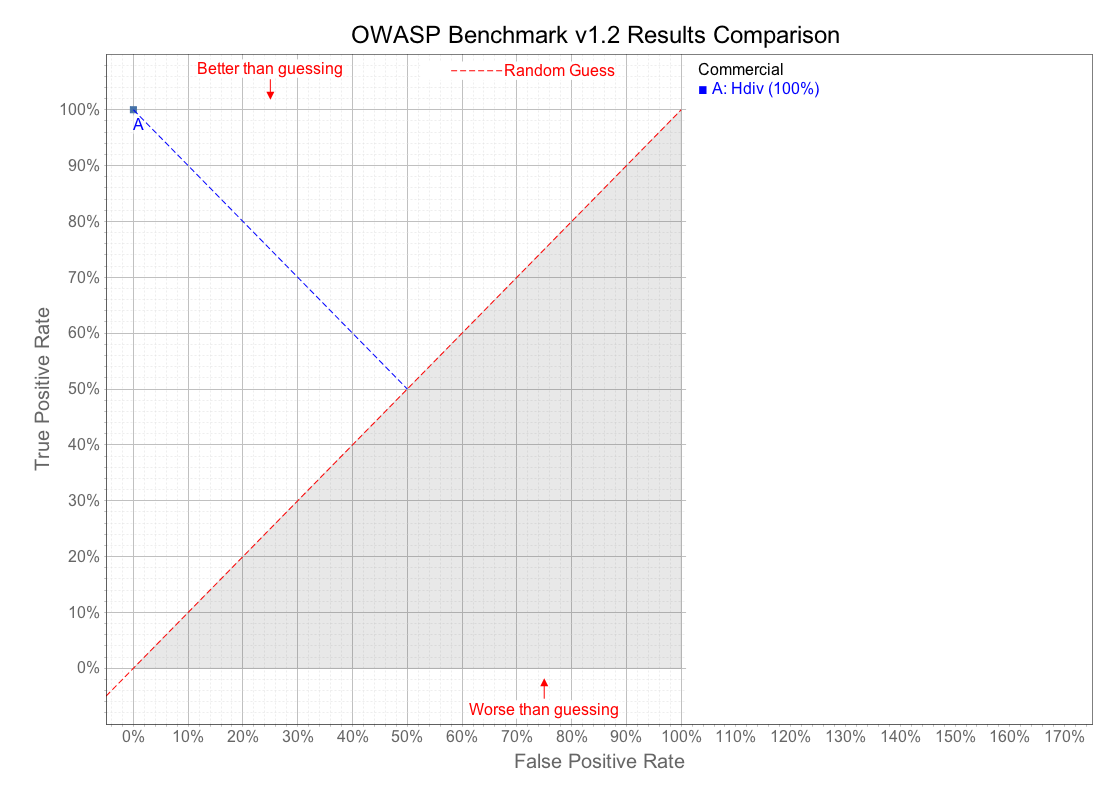
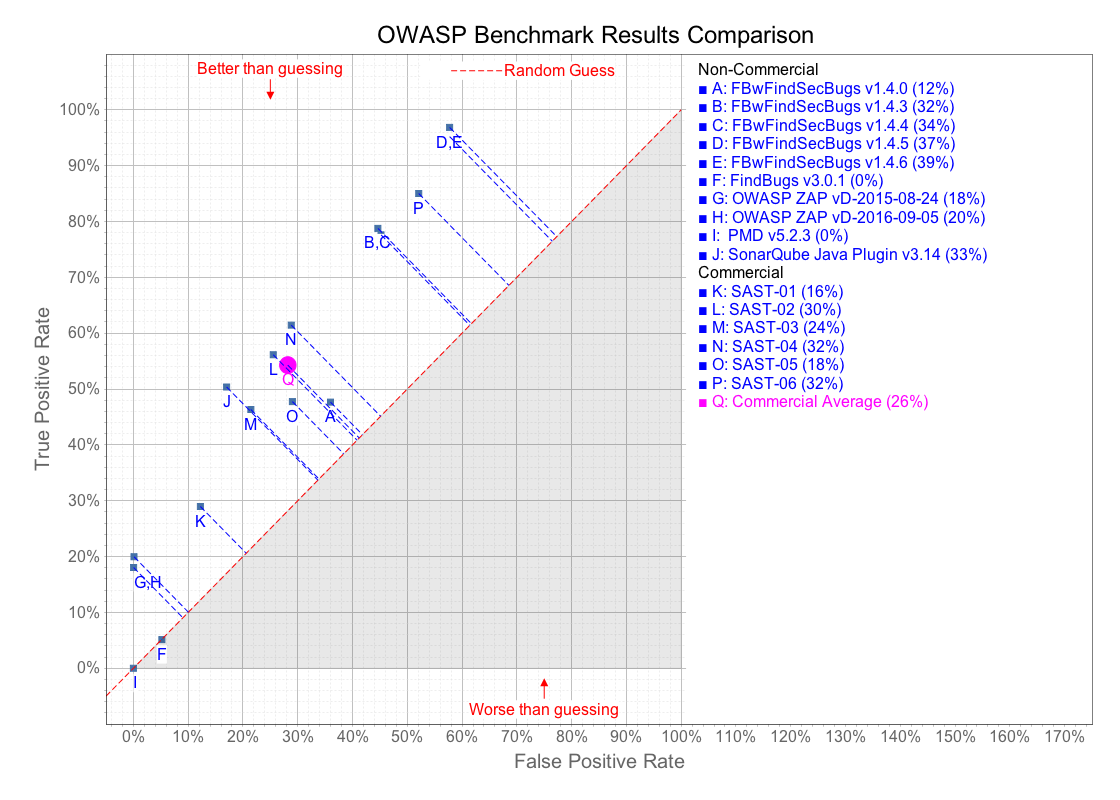
Recover changes

diff --git a/scorecard/OWASP_Benchmark_Home.html b/scorecard/OWASP_Benchmark_Home.html
@@ -10,7 +10,7 @@
     <meta name="author" content="">
     <link rel="icon" href="../../favicon.ico">
 
-    <title>Guide to the OWASP Benchmark v1.2</title>
+    <title>Guide to the OWASP Benchmark v1.1,1.2</title>
 
     <!-- Bootstrap core CSS -->
     <link href="content/css/bootstrap.min.css" rel="stylesheet">
@@ -34,7 +34,7 @@
     <nav class="navbar navbar-inverse navbar-fixed-top">
       <div class="container-fluid">
         <div class="navbar-header">
-          <a class="navbar-brand" href="OWASP_Benchmark_Home.html">OWASP Benchmark v1.2</a>
+          <a class="navbar-brand" href="OWASP_Benchmark_Home.html">OWASP Benchmark v1.1,1.2</a>
         </div>
         <div id="navbar" class="navbar-collapse collapse">
           <ul class="nav navbar-nav navbar-right">
@@ -42,24 +42,40 @@
 			<li class="dropdown">
 	          <a href="#" class="dropdown-toggle" data-toggle="dropdown" role="button" aria-haspopup="true" aria-expanded="false">Tools<span class="caret"></span></a>
 	          <ul class="dropdown-menu">
-<li><a href="Benchmark_v1.2_Scorecard_for_Hdiv.html">Hdiv</a></li>
+<li><a href="Benchmark_v1.2_Scorecard_for_FBwFindSecBugs_v1.4.0.html">FBwFindSecBugs v1.4.0</a></li>
+<li><a href="Benchmark_v1.2_Scorecard_for_FBwFindSecBugs_v1.4.3.html">FBwFindSecBugs v1.4.3</a></li>
+<li><a href="Benchmark_v1.2_Scorecard_for_FBwFindSecBugs_v1.4.4.html">FBwFindSecBugs v1.4.4</a></li>
+<li><a href="Benchmark_v1.2_Scorecard_for_FBwFindSecBugs_v1.4.5.html">FBwFindSecBugs v1.4.5</a></li>
+<li><a href="Benchmark_v1.2_Scorecard_for_FBwFindSecBugs_v1.4.6.html">FBwFindSecBugs v1.4.6</a></li>
+<li><a href="Benchmark_v1.2_Scorecard_for_FindBugs_v3.0.1.html">FindBugs v3.0.1</a></li>
+<li><a href="Benchmark_v1.2_Scorecard_for_OWASP_ZAP_vD-2015-08-24.html">OWASP ZAP vD-2015-08-24</a></li>
+<li><a href="Benchmark_v1.2_Scorecard_for_OWASP_ZAP_vD-2016-09-05.html">OWASP ZAP vD-2016-09-05</a></li>
+<li><a href="Benchmark_v1.2_Scorecard_for_PMD_v5.2.3.html">PMD v5.2.3</a></li>
+<li><a href="Benchmark_v1.1_Scorecard_for_SAST-01.html">SAST-01</a></li>
+<li><a href="Benchmark_v1.1_Scorecard_for_SAST-02.html">SAST-02</a></li>
+<li><a href="Benchmark_v1.1_Scorecard_for_SAST-03.html">SAST-03</a></li>
+<li><a href="Benchmark_v1.1_Scorecard_for_SAST-04.html">SAST-04</a></li>
+<li><a href="Benchmark_v1.1_Scorecard_for_SAST-05.html">SAST-05</a></li>
+<li><a href="Benchmark_v1.1_Scorecard_for_SAST-06.html">SAST-06</a></li>
+<li><a href="Benchmark_v1.2_Scorecard_for_SonarQube_Java_Plugin_v3.14.html">SonarQube Java Plugin v3.14</a></li>
+<li><a href="Benchmark_v1.1,1.2_Scorecard_for_Commercial_Tools.html">Commercial Average</a></li>
 
 	          </ul>
 	        </li>
 			<li class="dropdown">
 	          <a href="#" class="dropdown-toggle" data-toggle="dropdown" role="button" aria-haspopup="true" aria-expanded="false">Vulnerabilities<span class="caret"></span></a>
 	          <ul class="dropdown-menu">
-            <li><a href="Benchmark_v1.2_Scorecard_for_Command_Injection.html">Command Injection</a></li>
-            <li><a href="Benchmark_v1.2_Scorecard_for_Cross-Site_Scripting.html">Cross-Site Scripting</a></li>
-            <li><a href="Benchmark_v1.2_Scorecard_for_Insecure_Cookie.html">Insecure Cookie</a></li>
-            <li><a href="Benchmark_v1.2_Scorecard_for_LDAP_Injection.html">LDAP Injection</a></li>
-            <li><a href="Benchmark_v1.2_Scorecard_for_Path_Traversal.html">Path Traversal</a></li>
-            <li><a href="Benchmark_v1.2_Scorecard_for_SQL_Injection.html">SQL Injection</a></li>
-            <li><a href="Benchmark_v1.2_Scorecard_for_Trust_Boundary_Violation.html">Trust Boundary Violation</a></li>
-            <li><a href="Benchmark_v1.2_Scorecard_for_Weak_Encryption_Algorithm.html">Weak Encryption Algorithm</a></li>
-            <li><a href="Benchmark_v1.2_Scorecard_for_Weak_Hash_Algorithm.html">Weak Hash Algorithm</a></li>
-            <li><a href="Benchmark_v1.2_Scorecard_for_Weak_Random_Number.html">Weak Random Number</a></li>
-            <li><a href="Benchmark_v1.2_Scorecard_for_XPath_Injection.html">XPath Injection</a></li>
+            <li><a href="Benchmark_v1.1,1.2_Scorecard_for_Command_Injection.html">Command Injection</a></li>
+            <li><a href="Benchmark_v1.1,1.2_Scorecard_for_Cross-Site_Scripting.html">Cross-Site Scripting</a></li>
+            <li><a href="Benchmark_v1.1,1.2_Scorecard_for_Insecure_Cookie.html">Insecure Cookie</a></li>
+            <li><a href="Benchmark_v1.1,1.2_Scorecard_for_LDAP_Injection.html">LDAP Injection</a></li>
+            <li><a href="Benchmark_v1.1,1.2_Scorecard_for_Path_Traversal.html">Path Traversal</a></li>
+            <li><a href="Benchmark_v1.1,1.2_Scorecard_for_SQL_Injection.html">SQL Injection</a></li>
+            <li><a href="Benchmark_v1.1,1.2_Scorecard_for_Trust_Boundary_Violation.html">Trust Boundary Violation</a></li>
+            <li><a href="Benchmark_v1.1,1.2_Scorecard_for_Weak_Encryption_Algorithm.html">Weak Encryption Algorithm</a></li>
+            <li><a href="Benchmark_v1.1,1.2_Scorecard_for_Weak_Hash_Algorithm.html">Weak Hash Algorithm</a></li>
+            <li><a href="Benchmark_v1.1,1.2_Scorecard_for_Weak_Random_Number.html">Weak Random Number</a></li>
+            <li><a href="Benchmark_v1.1,1.2_Scorecard_for_XPath_Injection.html">XPath Injection</a></li>
 
  	          </ul>
 	        </li>
@@ -82,7 +98,7 @@
 <p>The OWASP Benchmark is a test suite designed to evaluate the speed, coverage, and accuracy of automated vulnerability detection tools. Without the ability to measure these tools, 
 it is difficult to understand their strengths and weaknesses, and compare them to each other. The Benchmark contains thousands of test cases that are fully runnable and exploitable.</p>
 
-<p>The chart below presents the overall results for this set of tools scored against version 1.2 of the Benchmark. 
+<p>The chart below presents the overall results for this set of tools scored against version 1.1,1.2 of the Benchmark. 
 The score for each tool is the overall true positive rate (TPR) across all the test categories, minus the 
 overall false positive rate (FPR). To see the detailed results for any particular tool, select the tool
 from the menus above. For an explanation of all the metrics calculated for each tool, see the 
@@ -97,8 +113,23 @@ from the menus above. For an explanation of all the metrics calculated for each 
 
 <h2>Summary of Results by Tool</h2>
 <table class="table">
-<tr><th>Tool</th><th>TPR*</th><th>FPR*</th><th>Score*</th></tr>
-<tr class="success"><td>Hdiv</td><td>100,00%</td><td>0,00%</td><td>100,00%</td></tr>
+<tr><th>Tool</th><th>Benchmark Version</th><th>TPR*</th><th>FPR*</th><th>Score*</th></tr>
+<tr ><td>FBwFindSecBugs v1.4.0</td><td>1.2</td><td>47.64%</td><td>35.99%</td><td>11.65%</td></tr>
+<tr ><td>FBwFindSecBugs v1.4.3</td><td>1.2</td><td>77.60%</td><td>45.21%</td><td>32.39%</td></tr>
+<tr ><td>FBwFindSecBugs v1.4.4</td><td>1.2</td><td>78.77%</td><td>44.64%</td><td>34.13%</td></tr>
+<tr ><td>FBwFindSecBugs v1.4.5</td><td>1.2</td><td>95.20%</td><td>57.74%</td><td>37.46%</td></tr>
+<tr ><td>FBwFindSecBugs v1.4.6</td><td>1.2</td><td>96.84%</td><td>57.74%</td><td>39.10%</td></tr>
+<tr class="danger"><td>FindBugs v3.0.1</td><td>1.2</td><td>5.12%</td><td>5.19%</td><td>-0.07%</td></tr>
+<tr ><td>OWASP ZAP vD-2015-08-24</td><td>1.2</td><td>18.03%</td><td>0.04%</td><td>17.99%</td></tr>
+<tr ><td>OWASP ZAP vD-2016-09-05</td><td>1.2</td><td>19.95%</td><td>0.12%</td><td>19.84%</td></tr>
+<tr class="danger"><td>PMD v5.2.3</td><td>1.2</td><td>0.00%</td><td>0.00%</td><td>0.00%</td></tr>
+<tr ><td>SAST-01</td><td>1.1</td><td>28.96%</td><td>12.22%</td><td>16.74%</td></tr>
+<tr ><td>SAST-02</td><td>1.1</td><td>56.13%</td><td>25.53%</td><td>30.60%</td></tr>
+<tr ><td>SAST-03</td><td>1.1</td><td>46.33%</td><td>21.44%</td><td>24.89%</td></tr>
+<tr ><td>SAST-04</td><td>1.1</td><td>61.45%</td><td>28.81%</td><td>32.64%</td></tr>
+<tr ><td>SAST-05</td><td>1.1</td><td>47.74%</td><td>29.03%</td><td>18.71%</td></tr>
+<tr ><td>SAST-06</td><td>1.1</td><td>85.02%</td><td>52.09%</td><td>32.93%</td></tr>
+<tr ><td>SonarQube Java Plugin v3.14</td><td>1.2</td><td>50.36%</td><td>17.02%</td><td>33.34%</td></tr>
 </tr>
 </table><p>*-Please refer to each tool's scorecard for the data used to calculate these values.
 <p>

diff --git a/scorecard/OWASP_Benchmark_Guide.html b/scorecard/OWASP_Benchmark_Guide.html
@@ -10,7 +10,7 @@
     <meta name="author" content="">
     <link rel="icon" href="../../favicon.ico">
 
-    <title>Guide to the OWASP Benchmark v1.2</title>
+    <title>Guide to the OWASP Benchmark v1.1,1.2</title>
 
     <!-- Bootstrap core CSS -->
     <link href="content/css/bootstrap.min.css" rel="stylesheet">
@@ -34,7 +34,7 @@
     <nav class="navbar navbar-inverse navbar-fixed-top">
       <div class="container-fluid">
         <div class="navbar-header">
-          <a class="navbar-brand" href="OWASP_Benchmark_Home.html">OWASP Benchmark v1.2</a>
+          <a class="navbar-brand" href="OWASP_Benchmark_Home.html">OWASP Benchmark v1.1,1.2</a>
         </div>
         <div id="navbar" class="navbar-collapse collapse">
           <ul class="nav navbar-nav navbar-right">
@@ -42,24 +42,40 @@
 			<li class="dropdown">
 	          <a href="#" class="dropdown-toggle" data-toggle="dropdown" role="button" aria-haspopup="true" aria-expanded="false">Tools<span class="caret"></span></a>
 	          <ul class="dropdown-menu">
-<li><a href="Benchmark_v1.2_Scorecard_for_Hdiv.html">Hdiv</a></li>
+<li><a href="Benchmark_v1.2_Scorecard_for_FBwFindSecBugs_v1.4.0.html">FBwFindSecBugs v1.4.0</a></li>
+<li><a href="Benchmark_v1.2_Scorecard_for_FBwFindSecBugs_v1.4.3.html">FBwFindSecBugs v1.4.3</a></li>
+<li><a href="Benchmark_v1.2_Scorecard_for_FBwFindSecBugs_v1.4.4.html">FBwFindSecBugs v1.4.4</a></li>
+<li><a href="Benchmark_v1.2_Scorecard_for_FBwFindSecBugs_v1.4.5.html">FBwFindSecBugs v1.4.5</a></li>
+<li><a href="Benchmark_v1.2_Scorecard_for_FBwFindSecBugs_v1.4.6.html">FBwFindSecBugs v1.4.6</a></li>
+<li><a href="Benchmark_v1.2_Scorecard_for_FindBugs_v3.0.1.html">FindBugs v3.0.1</a></li>
+<li><a href="Benchmark_v1.2_Scorecard_for_OWASP_ZAP_vD-2015-08-24.html">OWASP ZAP vD-2015-08-24</a></li>
+<li><a href="Benchmark_v1.2_Scorecard_for_OWASP_ZAP_vD-2016-09-05.html">OWASP ZAP vD-2016-09-05</a></li>
+<li><a href="Benchmark_v1.2_Scorecard_for_PMD_v5.2.3.html">PMD v5.2.3</a></li>
+<li><a href="Benchmark_v1.1_Scorecard_for_SAST-01.html">SAST-01</a></li>
+<li><a href="Benchmark_v1.1_Scorecard_for_SAST-02.html">SAST-02</a></li>
+<li><a href="Benchmark_v1.1_Scorecard_for_SAST-03.html">SAST-03</a></li>
+<li><a href="Benchmark_v1.1_Scorecard_for_SAST-04.html">SAST-04</a></li>
+<li><a href="Benchmark_v1.1_Scorecard_for_SAST-05.html">SAST-05</a></li>
+<li><a href="Benchmark_v1.1_Scorecard_for_SAST-06.html">SAST-06</a></li>
+<li><a href="Benchmark_v1.2_Scorecard_for_SonarQube_Java_Plugin_v3.14.html">SonarQube Java Plugin v3.14</a></li>
+<li><a href="Benchmark_v1.1,1.2_Scorecard_for_Commercial_Tools.html">Commercial Average</a></li>
 
 	          </ul>
 	        </li>
 			<li class="dropdown">
 	          <a href="#" class="dropdown-toggle" data-toggle="dropdown" role="button" aria-haspopup="true" aria-expanded="false">Vulnerabilities<span class="caret"></span></a>
 	          <ul class="dropdown-menu">
-            <li><a href="Benchmark_v1.2_Scorecard_for_Command_Injection.html">Command Injection</a></li>
-            <li><a href="Benchmark_v1.2_Scorecard_for_Cross-Site_Scripting.html">Cross-Site Scripting</a></li>
-            <li><a href="Benchmark_v1.2_Scorecard_for_Insecure_Cookie.html">Insecure Cookie</a></li>
-            <li><a href="Benchmark_v1.2_Scorecard_for_LDAP_Injection.html">LDAP Injection</a></li>
-            <li><a href="Benchmark_v1.2_Scorecard_for_Path_Traversal.html">Path Traversal</a></li>
-            <li><a href="Benchmark_v1.2_Scorecard_for_SQL_Injection.html">SQL Injection</a></li>
-            <li><a href="Benchmark_v1.2_Scorecard_for_Trust_Boundary_Violation.html">Trust Boundary Violation</a></li>
-            <li><a href="Benchmark_v1.2_Scorecard_for_Weak_Encryption_Algorithm.html">Weak Encryption Algorithm</a></li>
-            <li><a href="Benchmark_v1.2_Scorecard_for_Weak_Hash_Algorithm.html">Weak Hash Algorithm</a></li>
-            <li><a href="Benchmark_v1.2_Scorecard_for_Weak_Random_Number.html">Weak Random Number</a></li>
-            <li><a href="Benchmark_v1.2_Scorecard_for_XPath_Injection.html">XPath Injection</a></li>
+            <li><a href="Benchmark_v1.1,1.2_Scorecard_for_Command_Injection.html">Command Injection</a></li>
+            <li><a href="Benchmark_v1.1,1.2_Scorecard_for_Cross-Site_Scripting.html">Cross-Site Scripting</a></li>
+            <li><a href="Benchmark_v1.1,1.2_Scorecard_for_Insecure_Cookie.html">Insecure Cookie</a></li>
+            <li><a href="Benchmark_v1.1,1.2_Scorecard_for_LDAP_Injection.html">LDAP Injection</a></li>
+            <li><a href="Benchmark_v1.1,1.2_Scorecard_for_Path_Traversal.html">Path Traversal</a></li>
+            <li><a href="Benchmark_v1.1,1.2_Scorecard_for_SQL_Injection.html">SQL Injection</a></li>
+            <li><a href="Benchmark_v1.1,1.2_Scorecard_for_Trust_Boundary_Violation.html">Trust Boundary Violation</a></li>
+            <li><a href="Benchmark_v1.1,1.2_Scorecard_for_Weak_Encryption_Algorithm.html">Weak Encryption Algorithm</a></li>
+            <li><a href="Benchmark_v1.1,1.2_Scorecard_for_Weak_Hash_Algorithm.html">Weak Hash Algorithm</a></li>
+            <li><a href="Benchmark_v1.1,1.2_Scorecard_for_Weak_Random_Number.html">Weak Random Number</a></li>
+            <li><a href="Benchmark_v1.1,1.2_Scorecard_for_XPath_Injection.html">XPath Injection</a></li>
 
  	          </ul>
 	        </li>
